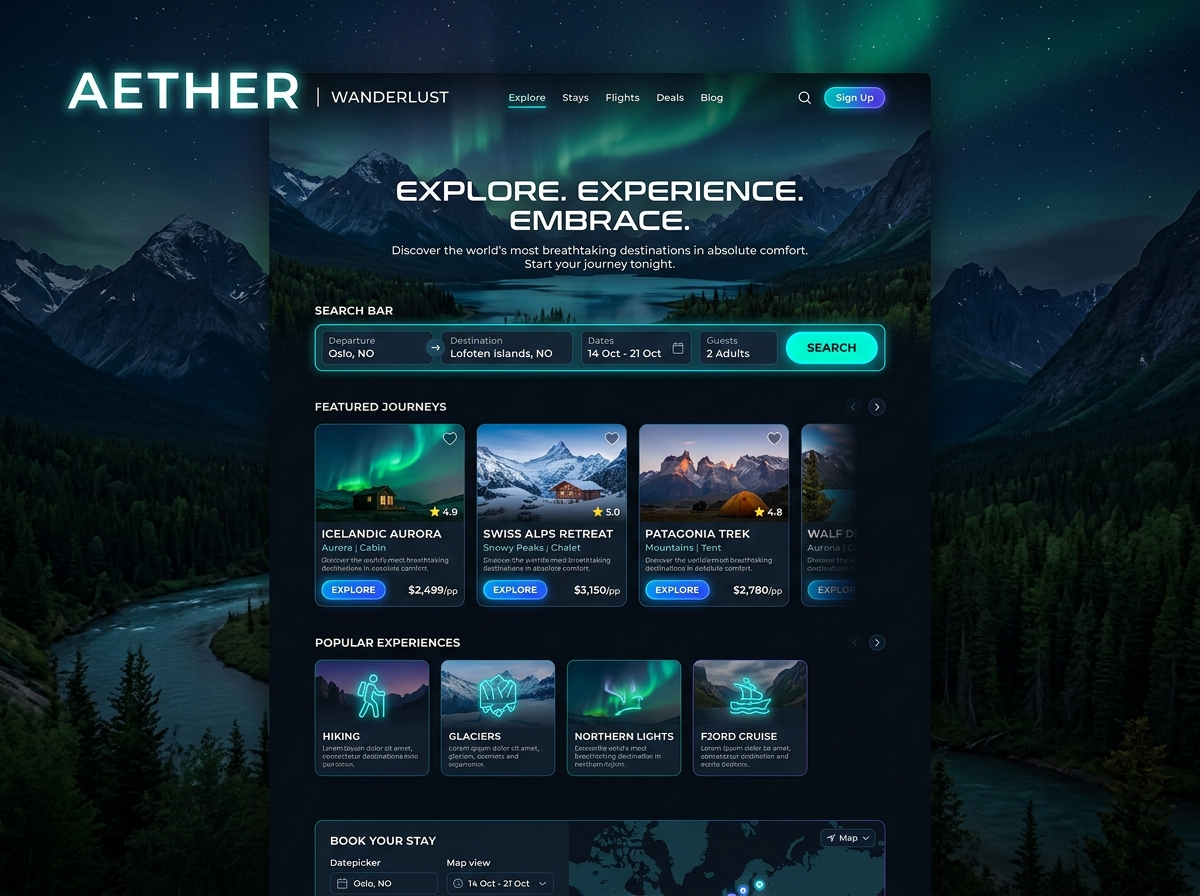
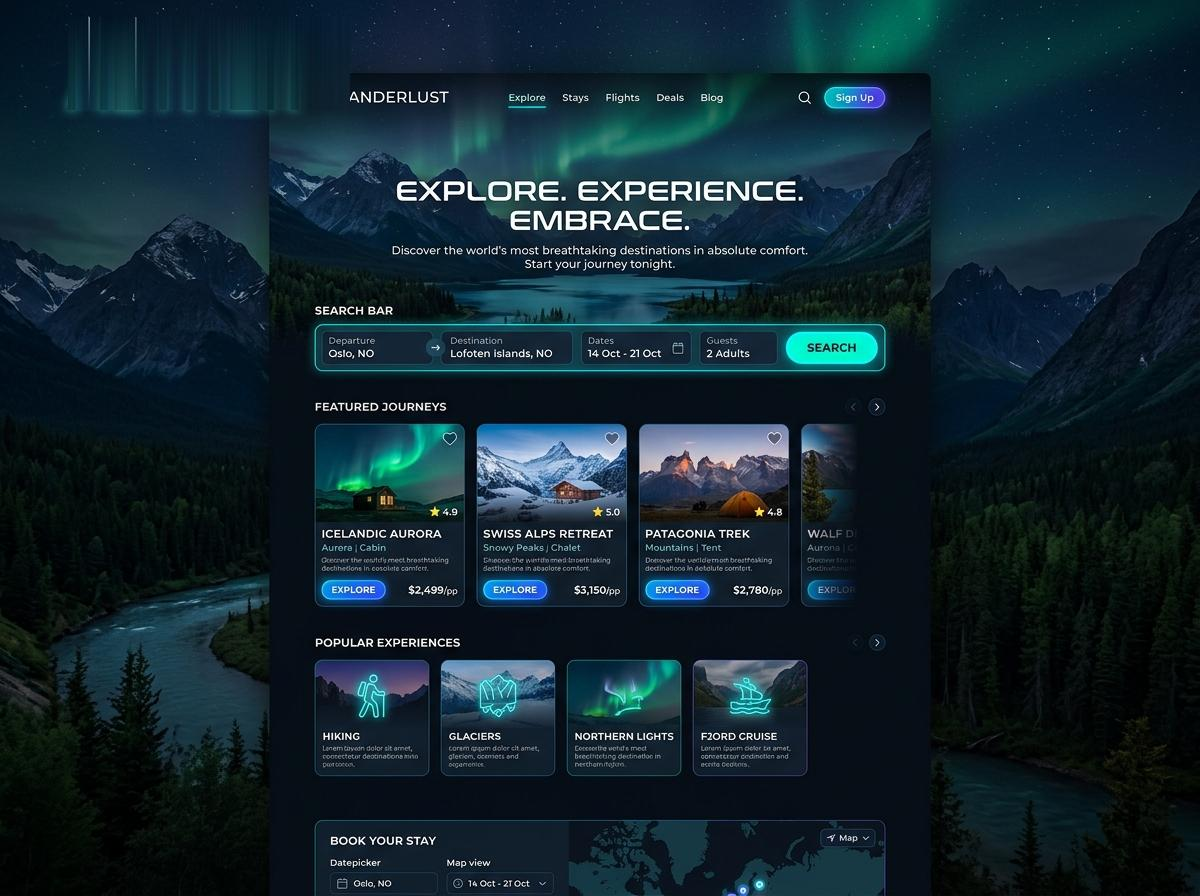
Erase AETHER text from project-travel.jpg background and update travel mockup coordinates

Changed region(s): [[0.0617, 0.0625, 0.3083, 0.125]]

diff --git a/style.css b/style.css
@@ -3198,9 +3198,9 @@ body.light-theme .phone-screen-iframe {
 
 .travel-screen-container {
   position: absolute;
-  left: 24.167%;
+  left: 22.35%;
   top: 8.3%;
-  width: 53.333%;
+  width: 55.3%;
   height: 83.1%;
   z-index: 2;
   overflow: hidden;
@@ -3209,7 +3209,6 @@ body.light-theme .phone-screen-iframe {
   outline: none !important;
   box-shadow: none !important;
 }
-
 
 .travel-screen-iframe {
   position: absolute;